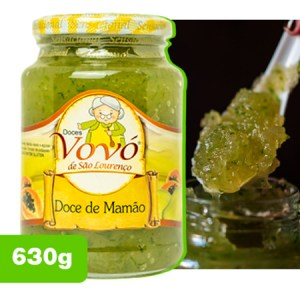
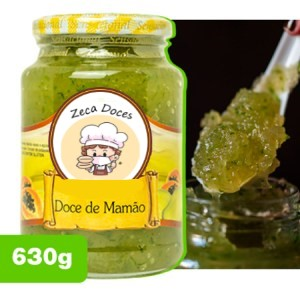
Adicionando imagens, criando Pages Layout separando os arquivos

Changed region(s): [[0.15, 0.27, 0.51, 0.66]]

diff --git a/css/index.css b/css/index.css
@@ -125,25 +125,13 @@ main {
 }
 
 .footer {
+    background-color: #ffba00;
     padding: 60px 0 60px 0;
     height: 50px;
     width: 90%;
     display: flex;
     align-items: center;
     justify-content: space-between;
-    background-color: #36912a;
-}
-
-#dados-academicos {
-    background-color: #cc2e13;
-}
-
-#dados-menu {
-    background-color: #1347cc;
-}
-
-#dados-social {
-    background-color: #cc13bd;
 }
 
 #dados-academicos {
@@ -152,4 +140,32 @@ main {
     flex-direction: column;
     font-size: 15px;
     color: white;
+}
+
+#dados-menu {
+    display: flex;
+    color: #000;
+}
+
+#dados-menu nav ul li a {
+    font-size: 14px;
+    color: rgb(248, 245, 245);
+}
+
+#dados-menu nav ul li a:hover {
+    font-size: 16px;
+    color: rgb(219, 118, 23);
+}
+
+#dados-social a img:hover {
+    border-radius: 50%;
+    background-color: rgb(2, 2, 2);
+}
+
+@media (max-width: 600px) {
+    .footer {
+        padding: 0;
+        height: 300px;
+        flex-direction: column;
+    }
 }

diff --git a/layout/header.php b/layout/header.php
@@ -25,7 +25,7 @@
             <div class="container">
                 <div class="navbar-brand">
                     <div class="logo">
-                        <img src="img/logo/vovo_logo.png" alt="Logo">
+                        <img src="img/logo/Zeca_logo.png" alt="Logo">
                     </div>
 
                     <a role="button" class="navbar-burger" aria-label="menu" aria-expanded="false" data-target="navbarBasicExample">
@@ -55,52 +55,3 @@
                 </div>
             </div>
         </nav>
-        <!--PRODUTOS SLIDER-->
-        <article class="content container">
-            <!-- Swiper -->
-            <div class="swiper container">
-                <h2>Mais Vendidos</h2>
-                <div class="swiper-wrapper">
-                    <div class="swiper-slide">
-                        <img src="img/maisVendidos/Bananinha-sem-Adicao-de-Acucarfe95.jpg" alt="produto" />
-                        <div class="info-produto">
-                            <div class="nome">
-                                <div class="nome-a">
-                                    <a href="#">Nome Loram Ipsim Doce Bomjardim Almeida de souza</a>
-                                </div>
-                            </div>
-                            <div class="preco">
-                                <p href="#">Preço</p>
-                            </div>
-                        </div>
-                    </div>
-                </div>
-                <!-- Add Pagination -->
-                <div class="swiper-pagination"></div>
-        </article>
-        <section class="rodape ">
-            <article class="footer">
-                <div id="dados-academicos">
-                    <h2>SUPERIOR DE TECNOLOGIA EM SISTEMAS</h2>
-                    <h3>DISCIPLINA: BACK END I</h3>
-                    <p>NOME: ANDRE LUIS BOMJARDIM DOS SANTOS</p>
-                    <p>RA: 1877561-5</p>
-                </div>
-                <div id="dados-menu">
-                    <ul>
-                        <li>Home</li>
-                        <li>Quem Somos</li>
-                        <li>Localização</li>
-                        <li>Contato</li>
-                    </ul>
-                </div>
-                <div id="dados-social">
-                    ...
-                </div>
-            </article>
-        </section>
-        <script src="lib/swiper.js"></script>
-        <script src="js/index.js"></script>
-</body>
-
-</html>

diff --git a/layout/footer.php b/layout/footer.php
@@ -1,0 +1,30 @@
+<section class="rodape ">
+            <article class="footer">
+                <div id="dados-academicos">
+                    <h2>SUPERIOR DE TECNOLOGIA EM SISTEMAS</h2>
+                    <h3>DISCIPLINA: BACK END I</h3>
+                    <p>NOME: ANDRE LUIS BOMJARDIM DOS SANTOS</p>
+                    <p>RA: 1877561-5</p>
+                </div>
+                <div id="dados-menu">
+                    <nav>
+                        <ul>
+                            <li><a href="../index.php" class="">Home</a></li>
+                            <li><a href="../index.php" class="">Quem somos</a></li>
+                            <li><a href="../index.php" class="">Contato</a></li>
+                            <li><a href="../index.php" class="">Localização</a></li>
+                        </ul>
+                    </nav>
+                </div>
+                <div id="dados-social">
+                    <a href=""><img src="img/social/social-facebook.png" alt=""></a>
+                    <a href=""><img src="img/social/social-twitter.png" alt=""></a>
+                    <a href=""><img src="img/social/social-youtube.png" alt=""></a>
+                </div>
+            </article>
+        </section>
+        <script src="lib/swiper.js"></script>
+        <script src="js/index.js"></script>
+</body>
+
+</html>

diff --git a/index.php b/index.php
@@ -1,0 +1,30 @@
+<?php 
+    include 'layout/header.php';
+?>
+        <!--PRODUTOS SLIDER-->
+        <article class="content container">
+            <!-- Swiper -->
+            <div class="swiper container">
+                <h2>Mais Vendidos</h2>
+                <div class="swiper-wrapper">
+                    <div class="swiper-slide">
+                        <img src="img/maisVendidos/Brigadeiro-com-Cocada-3fe95.jpg" alt="produto" />
+                        <div class="info-produto">
+                            <div class="nome">
+                                <div class="nome-a">
+                                    <a href="#">Nome Loram Ipsim Doce Bomjardim Almeida de souza</a>
+                                </div>
+                            </div>
+                            <div class="preco">
+                                <p href="#">Preço</p>
+                            </div>
+                        </div>
+                    </div>
+                </div>
+                <!-- Add Pagination -->
+                <div class="swiper-pagination"></div>
+        </article>
+
+<?php 
+    include 'layout/footer.php';
+?>
